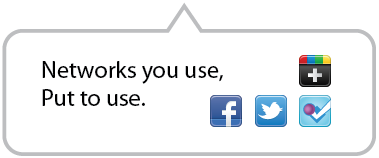
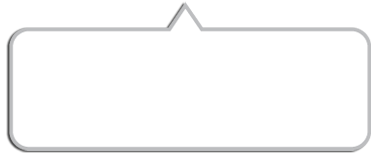
removed images and replaced with RGBA for the circle backgrounds

diff --git a/css/style.css b/css/style.css
@@ -72,8 +72,18 @@ td { vertical-align: top; }
 	margin:0 auto;
 	position:relative;
 	background-color: #eee;
-	width:800px;
+	width:715px;
 	padding-top:50px;
+}
+
+header {
+	position:relative;
+	height:50px;
+	width:705px;
+	background-color: #222;
+	color:#eee;
+	padding: 5px;
+	top:-50px;
 }
 
 #network {
@@ -81,6 +91,9 @@ td { vertical-align: top; }
 	width:318px;
 	height:318px;
 	left: 200px;
+	border-radius:350px;
+	background-color: #1583b3;
+	background: rgba(21, 131, 179, .75);
 }
 
 #context {
@@ -88,7 +101,9 @@ td { vertical-align: top; }
 	width:318px;
 	height:318px;
 	top: -180px;
-	left:80px;		
+	left:80px;
+	border-radius:350px;
+	background-color: rgba(255, 205, 50, .75);
 }
 
 #self {
@@ -97,6 +112,8 @@ td { vertical-align: top; }
 	height:318px;
 	top: -490px;
 	left:320px;
+	border-radius:350px;
+	background-color: rgba(241, 91, 93, .75);
 }
 
 .network {
@@ -132,7 +149,7 @@ td { vertical-align: top; }
 	width:318px;
 	height:318px;
 	left: 200px;
-	z-index:1;
+	z-index: 10;
 	border-radius:350px;
 	-moz-box-shadow: 0 0 5px #888;
 	-webkit-box-shadow: 0 0 5px#888;
@@ -143,39 +160,30 @@ td { vertical-align: top; }
     transition: all .2s ease-in-out;
 }
 
-#info1 {
+img#info1 {
     width: 100%;
 	opacity: 0;
 	position:relative;
-	top: -200px;
-	left: -15px;
-	z-index:10;
+	top: 180px;
+	left: -20px;
+	z-index:200;
 }
-#info2 {
+img#info2 {
     width: 100%;
 	opacity: 0;
 	position:relative;
-	top: -150px;
+	top: 180px;
 	right: -5px;
-	z-index:10;
+	z-index:200;
 }
-#info3 {
+img#info3 {
     width: 100%;
 	opacity: 0;
 	position:relative;
-	top: -130px;
+	top: 150px;
 	left: 50px;
-	z-index:10;
+	z-index:200;
 }
-
-
-
-
-
-
-
-
-
 
 
 

diff --git a/js/script.js b/js/script.js
@@ -8,7 +8,7 @@ $(function() {
 	    width: "100%",
 	    opacity: 1,	
 	    marginLeft: "20px",
-	  }, 100 );
+	  }, 400 );
 
    },
    function(){
@@ -18,7 +18,7 @@ $(function() {
 	    width: "100%",
 	    opacity: 0,
 	    marginLeft: "20px",
-	  }, 300 );
+	  }, 700 );
    });
 });
 
@@ -31,7 +31,7 @@ $(function() {
 	    width: "100%",
 	    opacity: 1,	
 	    marginLeft: "20px",
-	  }, 100 );
+	  }, 400 );
    },
    function(){
       $(this).removeClass('hover'); 
@@ -40,7 +40,7 @@ $(function() {
 	    width: "100%",
 	    opacity: 0,
 	    marginLeft: "20px",
-	  }, 300 );
+	  }, 700 );
    });
 });
 
@@ -53,7 +53,7 @@ $(function() {
 	    width: "100%",
 	    opacity: 1,	
 	    marginLeft: "20px",
-	  }, 300 );
+	  }, 400 );
    },
    function(){
       $(this).removeClass('hover'); 
@@ -62,7 +62,7 @@ $(function() {
 	    width: "100%",
 	    opacity: 0,
 	    marginLeft: "20px",
-	  }, 300 );
+	  }, 700 );
    });
 });
 

diff --git a/index.html b/index.html
@@ -22,20 +22,21 @@
 <body>
   <div id="container">
     <div id="main" role="main">
+	<header>
+<h3>	Interactive Venn Diagram</h3>	
+	</header>		
 <div id="network" class="network">
-<img src="img/1.png" title="Network" alt="1">
-<img id="info1" src="img/info1.png" title="Network Info" alt="1">
+	
+<a href="#"><img id="info1" src="img/info1.png" title="Network Info" alt="1"></a>
 	</div>
 	
 	
 <div id="context">
-<img src="img/2.png" title="Context" alt="2">
 <img id="info2" src="img/info2.png" title="Context Info" alt="1">
 	</div>
 
 
 <div id="self">
-<img src="img/3.png" title="S.E.L.F." alt="3">
 <img id="info3" src="img/info3.png" title="SELF Info" alt="1">
 	</div>
 
